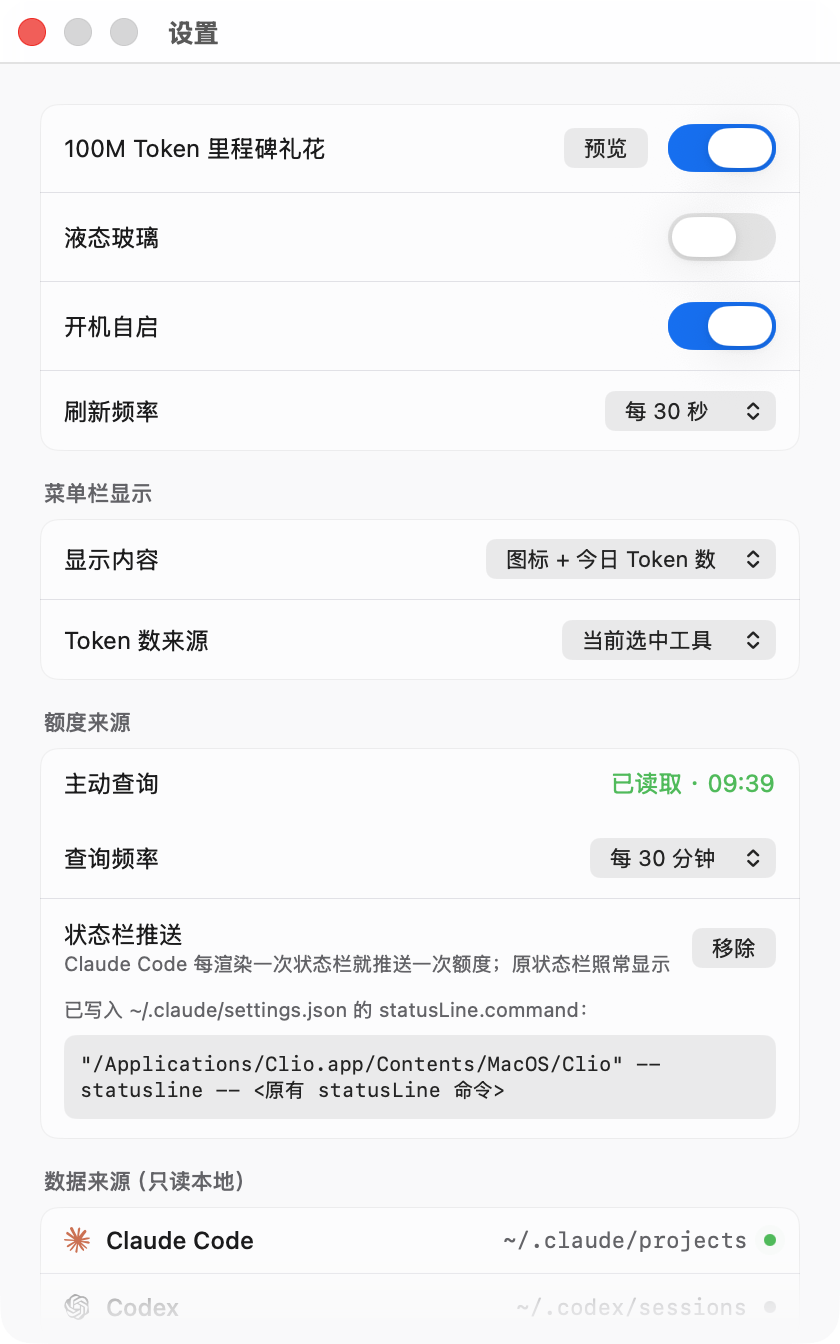
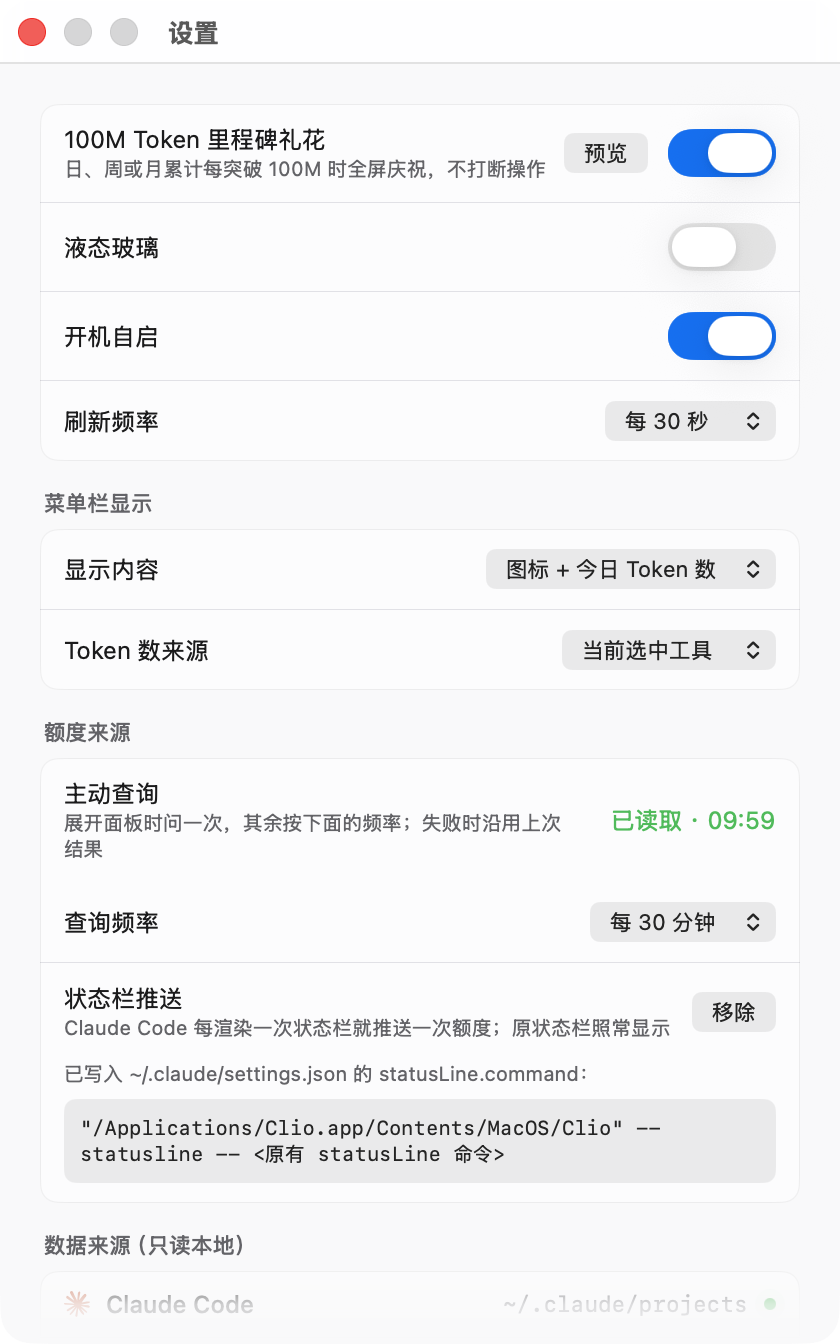
设置页的更新区改为状态卡片，链接悬浮加下划线，时间改用深色加粗
更新区参照 Hestia 的软件更新卡片：左侧图标块，右侧标题与副标题，下一行是时间或
提示与操作按钮，三者随状态一起切换。空闲、检查中、已是最新、发现新版本、后台下载
中、已就绪、安装中、失败各有对应的图标、文案与按钮；发现新版本与已就绪时按钮为强调
样式，进行中的状态按钮不可点、图标块转圈。空闲时副标题为「从 GitHub Releases 获取
稳定版」，其中 GitHub Releases 打开发布列表页；版本号不再是链接。

自动安装开启时的后台下载拆为独立的 downloading 阶段，不再与安装共用 installing，
界面不再在下载时显示「正在下载并安装」。发布信息里读取安装包大小，用于显示大小。

链接改为独立按钮，悬浮时加下划线，macOS 15 起指针变为手形；颜色只用于链接，「上次
检查」「最近更新」的时间改为主文字色加 medium 字重。里程碑礼花与主动查询恢复说明
文字。README 的设置截图重拍。

diff --git a/Sources/Clio/View/SettingsView.swift b/Sources/Clio/View/SettingsView.swift
@@ -28,6 +28,16 @@ struct SettingsView: View {
 }
 
 private extension View {
+    /// The pointing-hand pointer over a link, from macOS 15.
+    @ViewBuilder
+    func linkPointer() -> some View {
+        if #available(macOS 15, *) {
+            pointerStyle(.link)
+        } else {
+            self
+        }
+    }
+
     /// Fades a scroll view's edge on whichever side still has content out of
     /// view. Meant for scroll views without scroll bars, which it would fade
     /// too. Before macOS 15 the edges stay sharp.
@@ -104,7 +114,8 @@ struct SettingsContent: View {
     var body: some View {
         VStack(alignment: .leading, spacing: 14) {
                 group {
-                    row("100M Token 里程碑礼花") {
+                    row("100M Token 里程碑礼花",
+                        detail: "日、周或月累计每突破 100M 时全屏庆祝，不打断操作") {
                         HStack(spacing: 10) {
                             Button("预览", action: onPreviewConfetti)
                                 .controlSize(.small)
@@ -218,9 +229,7 @@ struct SettingsContent: View {
                 }
 
                 section("更新") {
-                    row(link("Clio \(Updater.currentVersion)", to: Updater.currentPage), detail: updateDetail) {
-                        updateAction
-                    }
+                    updateStatus
                     divider
                     row("自动检查更新") {
                         Toggle("", isOn: $prefs.autoCheckUpdates).labelsHidden()
@@ -280,16 +289,16 @@ struct SettingsContent: View {
     private func row<Trailing: View>(_ title: String,
                                      detail: String? = nil,
                                      @ViewBuilder trailing: () -> Trailing) -> some View {
-        row(Text(title), detail: detail.map { Text($0) }, trailing: trailing)
+        row(Text(title).foregroundStyle(theme.textPrimary), detail: detail.map { Text($0) }, trailing: trailing)
     }
 
     @ViewBuilder
-    private func row<Trailing: View>(_ title: Text,
-                                     detail: Text?,
-                                     @ViewBuilder trailing: () -> Trailing) -> some View {
+    private func row<Title: View, Trailing: View>(_ title: Title,
+                                                  detail: Text?,
+                                                  @ViewBuilder trailing: () -> Trailing) -> some View {
         HStack {
             VStack(alignment: .leading, spacing: 1) {
-                title.foregroundStyle(theme.textPrimary)
+                title
                 if let detail {
                     detail
                         .font(.system(size: 10))
@@ -303,62 +312,90 @@ struct SettingsContent: View {
         .padding(.vertical, 10)
     }
 
+    /// The update state: an icon tile with a title and sub line, then when it
+    /// was last checked and the button for the next step.
+    private var updateStatus: some View {
+        let face = UpdateFace(updater.phase, lastChecked: updater.lastChecked, theme: theme)
+        return VStack(alignment: .leading, spacing: 10) {
+            HStack(spacing: 10) {
+                UpdateIcon(icon: face.icon, tint: face.tint, quiet: face.quiet)
+                VStack(alignment: .leading, spacing: 1) {
+                    Text(face.title)
+                        .fontWeight(.medium)
+                        .foregroundStyle(theme.textPrimary)
+                    Group {
+                        if face.linksReleases {
+                            HStack(spacing: 0) {
+                                Text("从 ")
+                                LinkLabel(title: "GitHub Releases", url: Updater.releasesPage)
+                                Text(" 获取稳定版")
+                            }
+                        } else if let sub = face.sub {
+                            Text(sub)
+                        }
+                    }
+                    .font(.system(size: 10))
+                    .foregroundStyle(theme.textSecondary)
+                }
+            }
+            HStack {
+                Text("\(face.foot)\(face.stamp.map(stamp) ?? Text(""))")
+                    .font(.system(size: 10))
+                    .foregroundStyle(theme.textSecondary)
+                Spacer()
+                updateButton(face)
+            }
+        }
+        .padding(.horizontal, 12)
+        .padding(.vertical, 10)
+        .animation(.easeOut(duration: 0.18), value: updater.phase)
+    }
+
     @ViewBuilder
-    private var updateAction: some View {
-        switch updater.phase {
-        case .checking:
-            ProgressView().controlSize(.small)
-        case .installing:
-            HStack(spacing: 6) {
-                ProgressView().controlSize(.small)
-                Text("正在更新…").foregroundStyle(theme.textSecondary)
+    private func updateButton(_ face: UpdateFace) -> some View {
+        let button = Button(action: performUpdateStep) {
+            if let icon = face.buttonIcon {
+                Label(face.button, systemImage: icon).labelStyle(.titleAndIcon)
+            } else {
+                Text(face.button)
             }
-        case .available(let release), .ready(let release):
-            Button("更新到 \(release.version)") {
-                Task { await updater.install(release) }
-            }
-            .controlSize(.small)
-        case .idle, .upToDate, .failed:
-            Button("检查更新") {
-                Task { await updater.check() }
-            }
-            .controlSize(.small)
+        }
+        .controlSize(.small)
+        .disabled(face.busy)
+        if face.prominent {
+            button.buttonStyle(.borderedProminent)
+        } else {
+            button
         }
     }
 
-    /// Text in the highlight color that opens `url` in the browser.
-    private func link(_ title: String, to url: URL?) -> Text {
-        var text = AttributedString(title)
-        text.link = url
-        text.foregroundColor = theme.accent
-        return Text(text).fontWeight(.medium)
+    private func performUpdateStep() {
+        switch updater.phase {
+        case .idle, .upToDate, .failed:
+            Task { await updater.check() }
+        case .available(let release), .ready(let release):
+            Task { await updater.install(release) }
+        case .checking, .downloading, .installing:
+            break
+        }
     }
 
-    /// A time something was last fetched, in the highlight color.
+    /// A time something was last fetched, darker and heavier than the grey
+    /// label around it.
     private func stamp(_ date: Date) -> Text {
         Text(Format.stamp(date))
             .fontWeight(.medium)
-            .foregroundStyle(theme.accent)
+            .foregroundStyle(theme.textPrimary)
     }
 
-    private var updateDetail: Text {
-        let checked = updater.lastChecked.map { Text("上次检查 \(stamp($0))") } ?? Text("尚未检查")
-        switch updater.phase {
-        case .idle: return checked
-        case .checking: return Text("正在检查…")
-        case .upToDate: return Text("已是最新 · \(checked)")
-        case .available(let release):
-            return Text("发现新版本 \(link(release.version, to: release.pageURL))，下载后替换当前应用并重启")
-        case .ready(let release):
-            return Text("已下载 \(link(release.version, to: release.pageURL))，弹出层与设置窗口都关闭后替换并重启")
-        case .installing(let release):
-            return Text("正在下载并安装 \(link(release.version, to: release.pageURL))")
-        case .failed(let message): return Text(message)
+    @ViewBuilder
+    private var priceSource: some View {
+        if store.priceOrigin == .builtin {
+            Text("内置价格").foregroundStyle(theme.textPrimary)
+        } else {
+            LinkLabel(title: "models.dev", url: URL(string: "https://models.dev")!)
+                .fontWeight(.medium)
         }
-    }
-
-    private var priceSource: Text {
-        store.priceOrigin == .builtin ? Text("内置价格") : link("models.dev", to: URL(string: "https://models.dev"))
     }
 
     private var priceDetail: Text {
@@ -406,11 +443,11 @@ struct SettingsContent: View {
         return "已读取 · \(Format.clock(snapshot.updatedAt))"
     }
 
-    private var liveDetail: String? {
+    private var liveDetail: String {
         guard UsageProbe.executable != nil else {
             return "找不到 claude 命令行，5 小时、本周与模型额度只能显示 Token 数"
         }
-        return nil
+        return "展开面板时问一次，其余按下面的频率；失败时沿用上次结果"
     }
 
     private func binding(_ key: ReferenceWritableKeyPath<Preferences, [String: String]>, _ tool: Tool) -> Binding<String> {
@@ -448,5 +485,134 @@ private struct StatusDot: View {
                         }
                 }
             }
+    }
+}
+
+/// Text in the accent color that opens `url` in the browser, underlined while
+/// the pointer is over it.
+private struct LinkLabel: View {
+    let title: String
+    let url: URL
+
+    @Environment(\.theme) private var theme
+    @Environment(\.openURL) private var openURL
+    @State private var isHovered = false
+
+    var body: some View {
+        Button { openURL(url) } label: {
+            Text(title)
+                .underline(isHovered)
+                .foregroundStyle(theme.accent)
+        }
+        .buttonStyle(.plain)
+        .linkPointer()
+        .onHover { isHovered = $0 }
+    }
+}
+
+/// The update block's icon, wording and button in each phase.
+@MainActor
+private struct UpdateFace {
+    enum Icon { case download, done, warning, busy }
+
+    var icon: Icon
+    var tint: Color
+    /// A grey tile rather than one tinted with `tint`.
+    var quiet = false
+    var title: String
+    var sub: String?
+    /// The sub line reads 从 GitHub Releases 获取稳定版, with the link.
+    var linksReleases = false
+    var foot: String
+    /// Follows `foot`, set apart from it.
+    var stamp: Date?
+    var button: String
+    /// An SF Symbol before the button's title.
+    var buttonIcon: String?
+    var prominent = false
+    var busy = false
+
+    init(_ phase: Updater.Phase, lastChecked: Date?, theme: Theme) {
+        let current = Updater.currentVersion
+        let last = lastChecked == nil ? "尚未检查" : "上次检查 "
+        switch phase {
+        case .idle:
+            icon = .download; tint = theme.textSecondary; quiet = true
+            title = "Clio \(current)"; linksReleases = true
+            foot = last; stamp = lastChecked
+            button = "检查更新"; buttonIcon = "arrow.clockwise"
+        case .checking:
+            icon = .busy; tint = theme.accent
+            title = "正在检查更新…"; sub = "连接 github.com"
+            foot = "通常需要几秒"
+            button = "检查中"; busy = true
+        case .upToDate:
+            icon = .done; tint = theme.positive
+            title = "已是最新版本"; sub = "Clio \(current)"
+            foot = last; stamp = lastChecked
+            button = "再次检查"; buttonIcon = "arrow.clockwise"
+        case .available(let release):
+            icon = .download; tint = theme.accent
+            title = "Clio \(release.version) 可更新"; sub = release.size.map(Self.megabytes)
+            foot = "当前 \(current)"
+            button = "下载并安装"; buttonIcon = "arrow.down"; prominent = true
+        case .downloading(let release):
+            icon = .busy; tint = theme.accent
+            title = "正在下载 \(release.version)"; sub = release.size.map { "共 \(Self.megabytes($0))" }
+            foot = "下载完成后自动安装"
+            button = "下载中"; busy = true
+        case .ready(let release):
+            icon = .done; tint = theme.positive
+            title = "\(release.version) 已准备就绪"; sub = "弹出层与设置窗口都关闭后自动安装并重启"
+            foot = release.size.map { "已下载 \(Self.megabytes($0))" } ?? "已下载"
+            button = "立即重启"; buttonIcon = "arrow.clockwise"; prominent = true
+        case .installing(let release):
+            icon = .busy; tint = theme.accent
+            title = "正在安装 \(release.version)…"; sub = "请勿退出 Clio"
+            foot = "完成后自动重新启动"
+            button = "安装中"; busy = true
+        case .failed(let message):
+            icon = .warning; tint = theme.danger
+            title = "更新没有完成"; sub = message
+            foot = last; stamp = lastChecked
+            button = "重试"; buttonIcon = "arrow.clockwise"
+        }
+    }
+
+    private static func megabytes(_ bytes: Int) -> String {
+        String(format: "%.1f MB", Double(bytes) / 1_048_576)
+    }
+}
+
+/// The update block's leading tile: a glyph, or an arc turning while busy.
+private struct UpdateIcon: View {
+    var icon: UpdateFace.Icon
+    var tint: Color
+    var quiet: Bool
+
+    @Environment(\.theme) private var theme
+
+    var body: some View {
+        Group {
+            switch icon {
+            case .download: Image(systemName: "arrow.down")
+            case .done: Image(systemName: "checkmark")
+            case .warning: Image(systemName: "exclamationmark.triangle")
+            case .busy:
+                TimelineView(.animation) { context in
+                    let turn = context.date.timeIntervalSinceReferenceDate.truncatingRemainder(dividingBy: 0.9) / 0.9
+                    Circle()
+                        .trim(from: 0, to: 0.75)
+                        .stroke(tint, style: StrokeStyle(lineWidth: 2, lineCap: .round))
+                        .frame(width: 13, height: 13)
+                        .rotationEffect(.degrees(turn * 360))
+                }
+            }
+        }
+        .font(.system(size: 13, weight: .semibold))
+        .foregroundStyle(tint)
+        .frame(width: 30, height: 30)
+        .background(quiet ? theme.segmentedFill : tint.opacity(0.14),
+                    in: RoundedRectangle(cornerRadius: 8, style: .continuous))
     }
 }

diff --git a/Sources/Clio/Data/Updater.swift b/Sources/Clio/Data/Updater.swift
@@ -18,6 +18,8 @@ final class Updater: ObservableObject {
         let assetURL: URL
         /// Hex SHA-256 from the asset's `digest`, when GitHub reports one.
         let sha256: String?
+        /// The disk image's size in bytes.
+        let size: Int?
     }
 
     enum Phase: Equatable {
@@ -25,6 +27,8 @@ final class Updater: ObservableObject {
         case checking
         case upToDate
         case available(Release)
+        /// Downloading in the background ahead of an automatic install.
+        case downloading(Release)
         /// Downloaded and verified; installs once no window is open.
         case ready(Release)
         case installing(Release)
@@ -51,8 +55,7 @@ final class Updater: ObservableObject {
 
     private static let repository = "UreMySunshine/clio"
     private static let endpoint = URL(string: "https://api.github.com/repos/\(repository)/releases/latest")!
-    /// The running version's release page; tags are the version prefixed with `v`.
-    static let currentPage = URL(string: "https://github.com/\(repository)/releases/tag/v\(currentVersion)")
+    static let releasesPage = URL(string: "https://github.com/\(repository)/releases")!
     private static let checkInterval: TimeInterval = 24 * 3600
     private static let lastCheckedKey = "lastUpdateCheck"
     private static let justUpdatedKey = "justUpdatedTo"
@@ -111,7 +114,7 @@ final class Updater: ObservableObject {
 
     func check() async {
         switch phase {
-        case .checking, .ready, .installing: return
+        case .checking, .downloading, .ready, .installing: return
         default: break
         }
         phase = .checking
@@ -163,7 +166,7 @@ final class Updater: ObservableObject {
     private func stage(_ release: Release) async {
         guard case .available(release) = phase, installsAutomatically, Self.canReplaceBundle else { return }
         if staged?.release != release {
-            phase = .installing(release)
+            phase = .downloading(release)
             do {
                 let download = try await Self.download(release)
                 discardStaged()
@@ -303,7 +306,8 @@ final class Updater: ObservableObject {
             value.hasPrefix("sha256:") ? String(value.dropFirst("sha256:".count)) : nil
         }
         let version = tag.hasPrefix("v") ? String(tag.dropFirst()) : tag
-        return Release(version: version, pageURL: page, assetURL: download, sha256: digest)
+        return Release(version: version, pageURL: page, assetURL: download, sha256: digest,
+                       size: asset["size"] as? Int)
     }
 
     /// Numeric, component by component: 1.1.10 is newer than 1.1.9.
